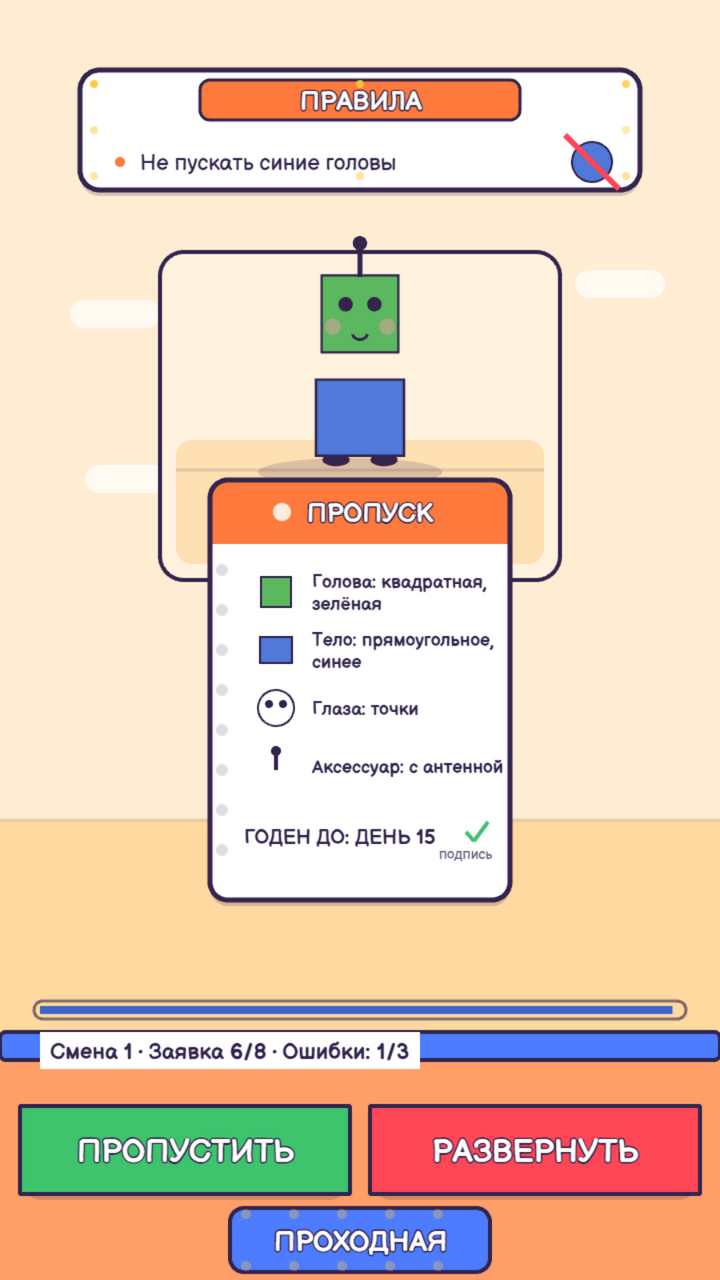
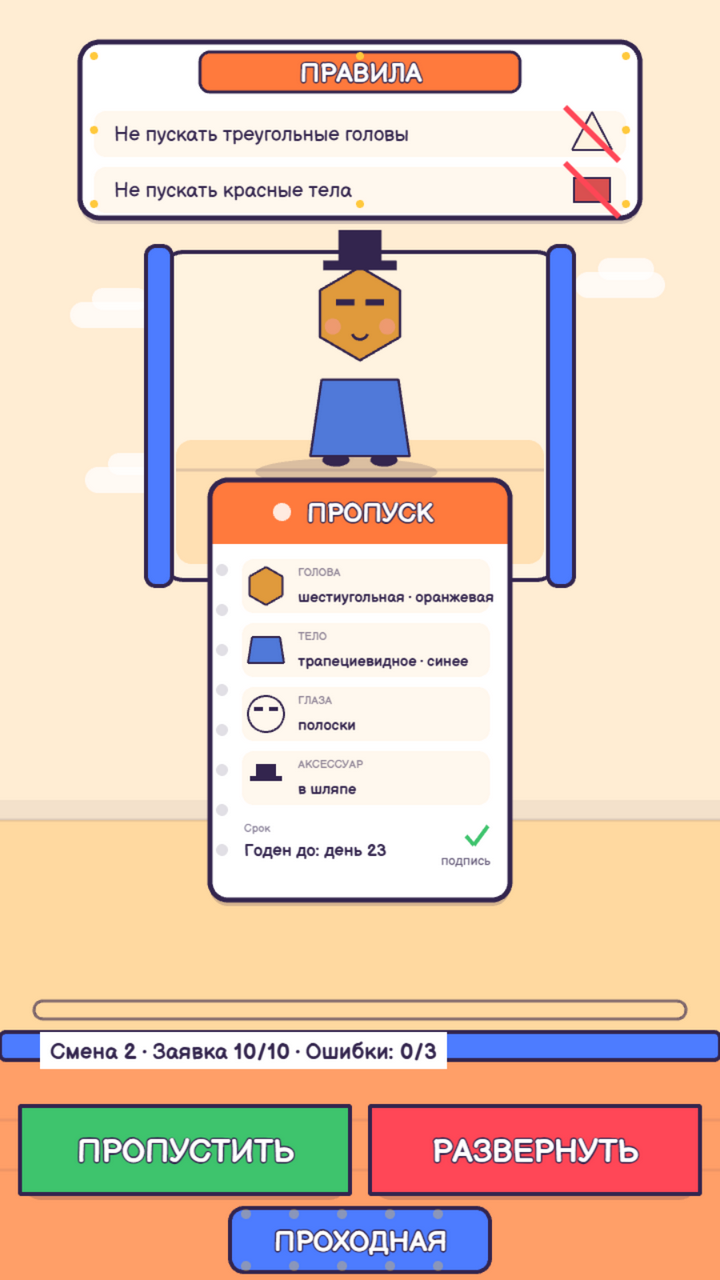
полировка фона: стойки ниши, пухлые облака, плинтус, фактура стойки; подложки рядов правил

Changed region(s): [[0.0917, 0.0312, 0.9167, 0.4688], [0.3361, 0.4375, 0.7028, 0.6875], [0.0611, 0.7812, 0.9472, 0.8438]]

diff --git a/src/render/booth.ts b/src/render/booth.ts
@@ -18,25 +18,37 @@ export function drawBooth(scene: Phaser.Scene, width: number, mode: 'game' | 'me
   // Стена и пол
   g.fillStyle(THEME.BG_WALL, 1);
   g.fillRect(0, 0, width, 820);
+  // плинтус у стыка
+  g.fillStyle(THEME.INK, 0.06);
+  g.fillRect(0, 800, width, 20);
   g.fillStyle(THEME.BG_FLOOR, 1);
   g.fillRect(0, 820, width, 460);
   g.lineStyle(3, THEME.INK, 0.12);
   g.lineBetween(0, 820, width, 820);
 
-  // Облака на стене
-  g.fillStyle(THEME.CLOUD, 0.7);
-  g.fillRoundedRect(70, 300, 90, 28, 14);
-  g.fillRoundedRect(575, 270, 90, 28, 14);
-  g.fillRoundedRect(85, 465, 90, 28, 14);
+  // Облака на стене — два «пуха» на облако
+  g.fillStyle(THEME.CLOUD, 0.75);
+  g.fillRoundedRect(70, 302, 90, 26, 13);
+  g.fillRoundedRect(92, 288, 56, 22, 11);
+  g.fillRoundedRect(575, 272, 90, 26, 13);
+  g.fillRoundedRect(598, 258, 56, 22, 11);
+  g.fillRoundedRect(85, 467, 90, 26, 13);
+  g.fillRoundedRect(108, 453, 56, 22, 11);
 
   let guestShadow: Phaser.GameObjects.Graphics | null = null;
 
   if (mode === 'game') {
-    // Ниша гостя
+    // Ниша гостя + стойки-косяки по краям (структура проходной)
     g.fillStyle(THEME.NICHE, 1);
     g.fillRoundedRect(160, 252, 400, 328, 24);
     g.lineStyle(4, THEME.INK, 1);
     g.strokeRoundedRect(160, 252, 400, 328, 24);
+    g.fillStyle(THEME.PANEL, 1);
+    g.fillRoundedRect(146, 246, 26, 340, 10);
+    g.lineStyle(4, THEME.INK, 1);
+    g.strokeRoundedRect(146, 246, 26, 340, 10);
+    g.fillRoundedRect(548, 246, 26, 340, 10);
+    g.strokeRoundedRect(548, 246, 26, 340, 10);
     g.fillStyle(THEME.NICHE_FLOOR, 1);
     g.fillRoundedRect(176, 440, 368, 124, 16);
     g.lineStyle(3, THEME.INK, 0.15);
@@ -59,6 +71,10 @@ export function drawBooth(scene: Phaser.Scene, width: number, mode: 'game' | 'me
   // Стойка: фронтон + столешница
   g.fillStyle(THEME.COUNTER_BODY, 1);
   g.fillRect(0, 1060, width, 220);
+  // фактура фронтона
+  g.lineStyle(3, THEME.INK, 0.08);
+  g.lineBetween(0, 1120, width, 1120);
+  g.lineBetween(0, 1170, width, 1170);
   g.fillStyle(THEME.COUNTER_TOP, 1);
   g.fillRoundedRect(0, 1032, width, 28, 6);
   g.lineStyle(4, THEME.INK, 1);

diff --git a/src/render/ruleBoard.ts b/src/render/ruleBoard.ts
@@ -52,14 +52,18 @@ export function drawRuleBoard(
 
   rules.forEach((rule, i) => {
     const y = -half + 92 + i * rowH;
-    board.add(scene.add.circle(-width / 2 + 40, y, 5, THEME.ACCENT));
+    // подложка ряда — структурирует список
+    const rowBg = scene.add.graphics();
+    rowBg.fillStyle(THEME.NICHE, 0.55);
+    rowBg.fillRoundedRect(-width / 2 + 14, y - 23, width - 28, 46, 12);
+    board.add(rowBg);
     board.add(
       scene.add
-        .text(-width / 2 + 60, y, rule.text, {
+        .text(-width / 2 + 34, y, rule.text, {
           fontFamily: FONT,
           fontSize: '20px',
           color: INK_HEX,
-          wordWrap: { width: 340 },
+          wordWrap: { width: 330 },
         })
         .setOrigin(0, 0.5),
     );
